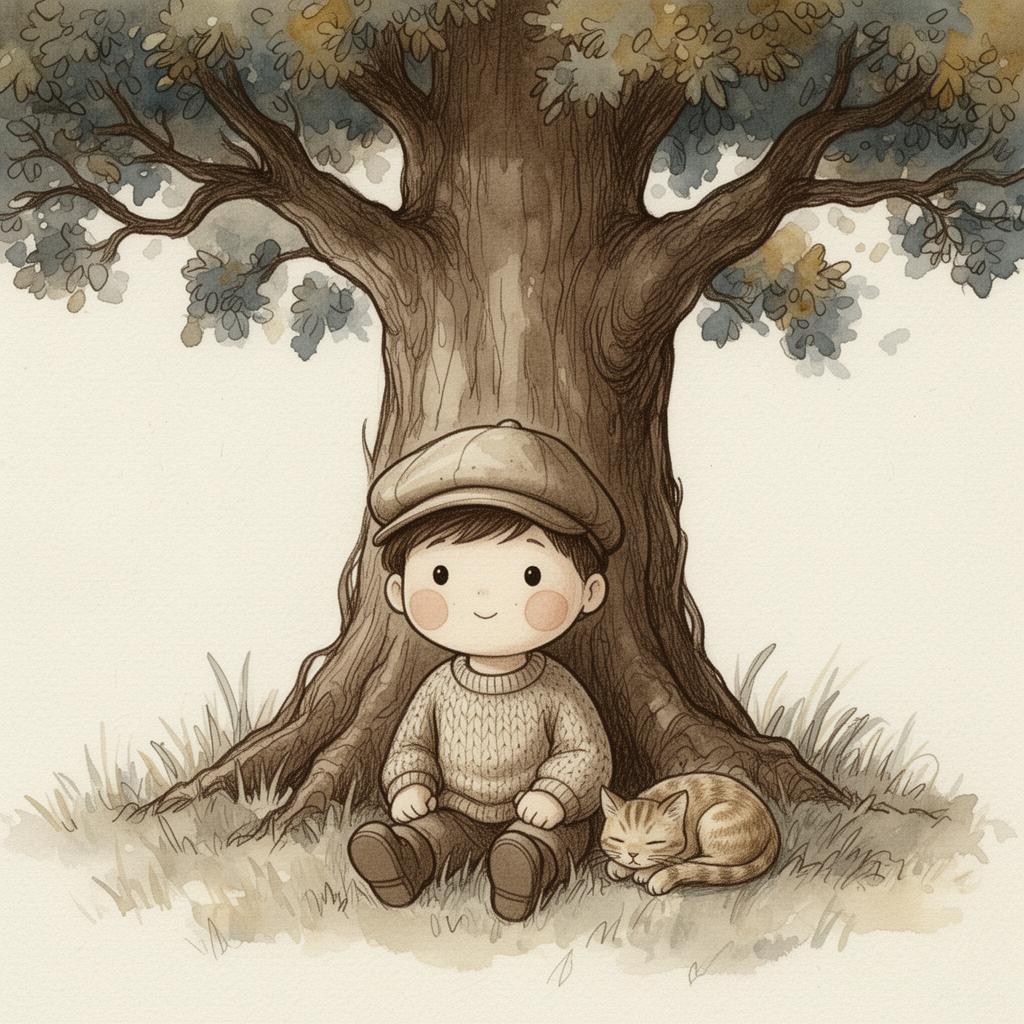
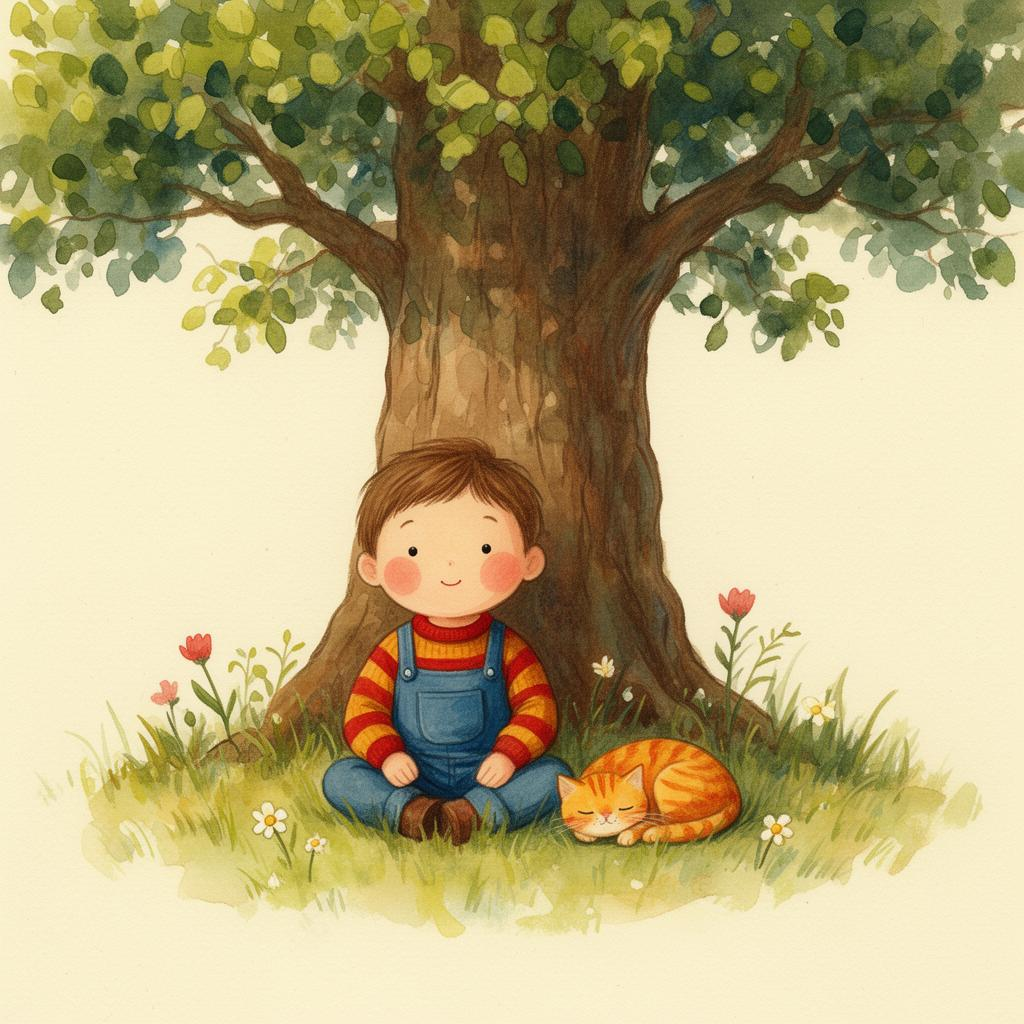
Changes

diff --git a/supabase/functions/_shared/prompts.ts b/supabase/functions/_shared/prompts.ts
@@ -34,7 +34,8 @@ export const ART_STYLE_ALIASES: Record<string, string> = {
 
 export const ART_STYLE_PROMPTS: Record<string, string> = {
   "cozy-gouache":
-    "traditional watercolor and gouache children's book illustration on cold-pressed matte paper with visible paper fiber, fine sepia-toned or dark brown hand-drawn ink outlines visible throughout every element, strictly muted desaturated earth tones only (moss green, fawn brown, dusty blue, antique gold, ochre, soft slate) with optional soft natural pastel accents, soft pigment bleeding and granulation, no high-saturation or neon colors, no digital airbrushing, no harsh shadows, no 3D or CGI, no photorealism; characters (human or anthropomorphic animal) have approachable rounded contours with simple tiny widely-spaced black dot eyes, a very subtle dash or curve for a mouth, and a clear symmetrical circular soft rosy cheek patch on each side; timeless vintage rustic clothing (simple dresses, woolen sweaters, small caps); nostalgic gentle whimsical mood",
+    "painterly children's book illustration in traditional gouache and watercolor on warm cream cold-pressed paper with visible paper grain and soft pigment bleeds; loose visible gouache and watercolor brush strokes throughout — dappled leaf dabs, painterly washes with soft expressive edges, hand-painted texture clearly visible in backgrounds, clothing, and foliage (not flat, not digitally smooth); warm gently saturated storybook palette of soft reds, mustard yellows, bright leaf greens, sky blues, terracotta, and warm browns anchored by a warm cream/butter ground — colorful and inviting, NOT sepia, NOT washed out, NOT desaturated, but also no neon or over-saturation; minimal soft brown linework only where needed for character features and a few key edges, most forms defined by painted shape and color rather than outline, no bold black ink outlines and no heavy sepia overlay; characters have rounded approachable contours with tiny widely-spaced black dot eyes, a subtle curved mouth, and a clear symmetrical round soft rosy cheek patch on each side; timeless vintage rustic clothing (simple dresses, striped sweaters, overalls, small caps); nostalgic, gentle, whimsical mood",
+
   "geometric-pop":
     "2D digital children's book illustration in geometric textured pop style, flat gouache washes combined with crisp vector art, strictly lineless with no visible outlines, forms defined entirely by clean geometric edges and graphic silhouettes, warm vibrant retro-pop palette balancing high-saturation colors with grounded muted earthy greens and warm mustards, subtle stippled shading, light digital noise and paper grain overlay over flat color blocks, no smooth complex gradients; characters have simplified geometric proportions with slightly larger heads and stylized solid block hair, highly minimalist faces with large simple dark eyes with minimal highlights, distinct rosy stippled cheeks, and soft curved mouths; cheerful cozy wholesome energetic mood; no 3D, no CGI, no photorealism, no black outlines, no line art, no cel shading, no messy brushstrokes, no anime, no complex gradients, no muddy colors",
   "papercraft-collage":

diff --git a/src/lib/artStyles.ts b/src/lib/artStyles.ts
@@ -44,7 +44,7 @@ export const ART_STYLES: ArtStyle[] = [
     emoji: "🎨",
     desc: "Traditional watercolor and gouache with nostalgic charm",
     prompt:
-      "traditional watercolor and gouache children's book illustration on cold-pressed matte paper with visible paper fiber, fine sepia-toned or dark brown hand-drawn ink outlines visible throughout every element, strictly muted desaturated earth tones only (moss green, fawn brown, dusty blue, antique gold, ochre, soft slate) with optional soft natural pastel accents, soft pigment bleeding and granulation, no high-saturation or neon colors, no digital airbrushing, no harsh shadows, no 3D or CGI, no photorealism; characters (human or anthropomorphic animal) have approachable rounded contours with simple tiny widely-spaced black dot eyes, a very subtle dash or curve for a mouth, and a clear symmetrical circular soft rosy cheek patch on each side; timeless vintage rustic clothing (simple dresses, woolen sweaters, small caps); nostalgic gentle whimsical mood",
+      "painterly children's book illustration in traditional gouache and watercolor on warm cream cold-pressed paper with visible paper grain and soft pigment bleeds; loose visible gouache and watercolor brush strokes throughout — dappled leaf dabs, painterly washes with soft expressive edges, hand-painted texture clearly visible in backgrounds, clothing, and foliage (not flat, not digitally smooth); warm gently saturated storybook palette of soft reds, mustard yellows, bright leaf greens, sky blues, terracotta, and warm browns anchored by a warm cream/butter ground — colorful and inviting, NOT sepia, NOT washed out, NOT desaturated, but also no neon or over-saturation; minimal soft brown linework only where needed for character features and a few key edges, most forms defined by painted shape and color rather than outline, no bold black ink outlines and no heavy sepia overlay; characters have rounded approachable contours with tiny widely-spaced black dot eyes, a subtle curved mouth, and a clear symmetrical round soft rosy cheek patch on each side; timeless vintage rustic clothing (simple dresses, striped sweaters, overalls, small caps); nostalgic, gentle, whimsical mood",
     preview: "/art-styles/cozy-gouache.jpg",
   },
   {

diff --git a/.lovable/plan.md b/.lovable/plan.md
@@ -1,50 +1,34 @@
-# Refresh the 4 illustration styles
+# Make Cozy Gouache more painterly and colorful
 
-Replace all four art-style options on Step 6 with new names, slugs, descriptions, emojis, and detailed prompts. Generate fresh thumbnails from the new prompts. Add a legacy alias map so any in-flight wizard state (or the existing `storybook-soft` backend default) keeps working.
+The current prompt is overcorrecting toward "muted desaturated earth tones" and "sepia-toned ink outlines visible throughout every element" — that produces the washed-out, brown-dominant result you're seeing. The reference image actually has gently saturated reds/blues/greens, loose painterly brush strokes, and only minimal linework. We rewrite the prompt to match that.
 
-## The four new styles
+## What changes in the prompt
 
-| Slot | Old slug → New slug | New label | Emoji |
-|---|---|---|---|
-| 1 | `watercolor` → `cozy-gouache` | Cozy Gouache | 🎨 |
-| 2 | `cozy-sketch` → `geometric-pop` | Geometric Pop | 🔷 |
-| 3 | `bold-bright` → `papercraft-collage` | Papercraft Collage | 📜 |
-| 4 | `dreamy-pastel` → `hand-drawn-charm` | Hand-Drawn Charm | ✏ |
+**Loosen the palette** (was: strict muted earth tones only)
+→ "warm, gently saturated storybook palette — soft reds, mustard yellows, bright leaf greens, sky blues, terracotta, warm browns — anchored by a warm cream/butter paper ground. Avoid neon and over-saturation, but the image should read as colorful and inviting, not sepia or washed out."
 
-Each gets the full descriptive prompt you sent (medium, palette, texture, character features, negatives) wired in as a single fragment string — that fragment is what `generate-cover`, `generate-character-portrait`, and `generate-book-images` inject into their image prompts.
+**Add explicit painterly direction** (was barely mentioned)
+→ "loose visible gouache and watercolor brush strokes, dappled leaf dabs, painterly washes with soft expressive edges, hand-painted texture throughout backgrounds and clothing, brushwork clearly visible — not flat or digitally smooth."
 
-## Files to change
+**Soften the linework rule** (was: visible throughout every element)
+→ "minimal soft brown linework only where needed for character features and a few key edges; most forms are defined by painted shape and color, not outline. No bold black ink outlines and no heavy sepia overlay."
 
-1. **`src/lib/artStyles.ts`** — replace the `ART_STYLES` array with the four new entries (label, value=new slug, emoji, desc, prompt, preview path).
-2. **`supabase/functions/_shared/prompts.ts`** — replace the four entries in `ART_STYLE_PROMPTS` with the new slugs + matching prompts. Keep `storybook-soft` (backend-only fallback). Update the `getArtStylePrompt` default fallback from `watercolor` → `cozy-gouache`.
-3. **Legacy alias map** (new, small) — in `prompts.ts` and mirrored in `artStyles.ts`:
-   - `watercolor` → `cozy-gouache`
-   - `cozy-sketch` → `geometric-pop`
-   - `bold-bright` → `papercraft-collage`
-   - `dreamy-pastel` → `hand-drawn-charm`
-   - `storybook-soft` → `cozy-gouache` (closest match for the backend fallback)
-   `getArtStylePrompt(value)` resolves through the alias map before lookup so any stored state, default mapping, or in-flight book still renders.
-4. **`src/pages/steps/Step6ArtStyle.tsx`** — update `getDefaultArtStyle(genre)` to point at the new slugs (same genre buckets):
-   - adventure / superhero / sports → `geometric-pop`
-   - bedtime / everyday → `hand-drawn-charm`
-   - fantasy / fairy-tale → `cozy-gouache`
-   - default → `papercraft-collage`
-5. **`public/art-styles/*.jpg`** — generate four new 2:3 thumbnails (one per style) using each new prompt with a consistent subject ("a small child sitting under a tree with a small animal companion") so the picker shows true differentiation. Saved as:
-   - `public/art-styles/cozy-gouache.jpg`
-   - `public/art-styles/geometric-pop.jpg`
-   - `public/art-styles/papercraft-collage.jpg`
-   - `public/art-styles/hand-drawn-charm.jpg`
-   Old files (`watercolor.jpg`, etc.) get deleted to avoid stale references.
+**Keep what's working**: cold-pressed paper grain, soft pigment bleeds, character recipe (rounded contours, tiny widely-spaced dot eyes, subtle curved mouth, symmetrical rosy cheek patches), vintage rustic clothing, nostalgic mood.
+
+## Files to update
+
+1. `src/lib/artStyles.ts` — replace the `cozy-gouache` entry's `prompt` field.
+2. `supabase/functions/_shared/prompts.ts` — replace `ART_STYLE_PROMPTS["cozy-gouache"]` with the exact same string (the two must stay in sync).
+3. `public/art-styles/cozy-gouache.jpg` — regenerate the thumbnail with the new prompt (same subject: child + sleeping cat under a tree) so the Step 6 picker matches what the model will actually paint.
+4. Deploy `generate-cover`, `generate-character-portrait`, `generate-book-images`, and `generate-book` so the new fragment takes effect for both the wizard preview cover and any full-book run.
 
 ## Out of scope
 
-- No changes to Step 6 UI/layout, the 2-column grid, or the "we pre-selected the best style" copy.
-- No changes to `generate-cover` / `generate-character-portrait` / `generate-book-images` — they consume `getArtStylePrompt()` and pick up the new prompts automatically.
-- No DB migration needed (art style is a wizard-state string, not a stored column with a check constraint).
+- No code/logic changes — only the prompt string and the thumbnail.
+- The other three styles (Geometric Pop, Papercraft Collage, Hand-Drawn Charm) are not touched.
+- No changes to the alias map or default-by-genre mapping.
 
 ## Verification
 
-- Load `/step/6-art-style` and confirm all four new cards render with new labels, emojis, descriptions, and the freshly generated thumbnails.
-- Click each card → continue → confirm the brief carries the new slug.
-- Spot-check `getArtStylePrompt("watercolor")` resolves to the `cozy-gouache` prompt (alias works).
-- Trigger a cover gen on one new style and confirm the image visibly matches the new prompt direction.
+- Open `/step/6-art-style` and confirm the Cozy Gouache card shows the new, more colorful and painterly thumbnail.
+- Generate a cover with Cozy Gouache selected and confirm it reads as painterly + warm + gently colorful (not sepia-washed).
